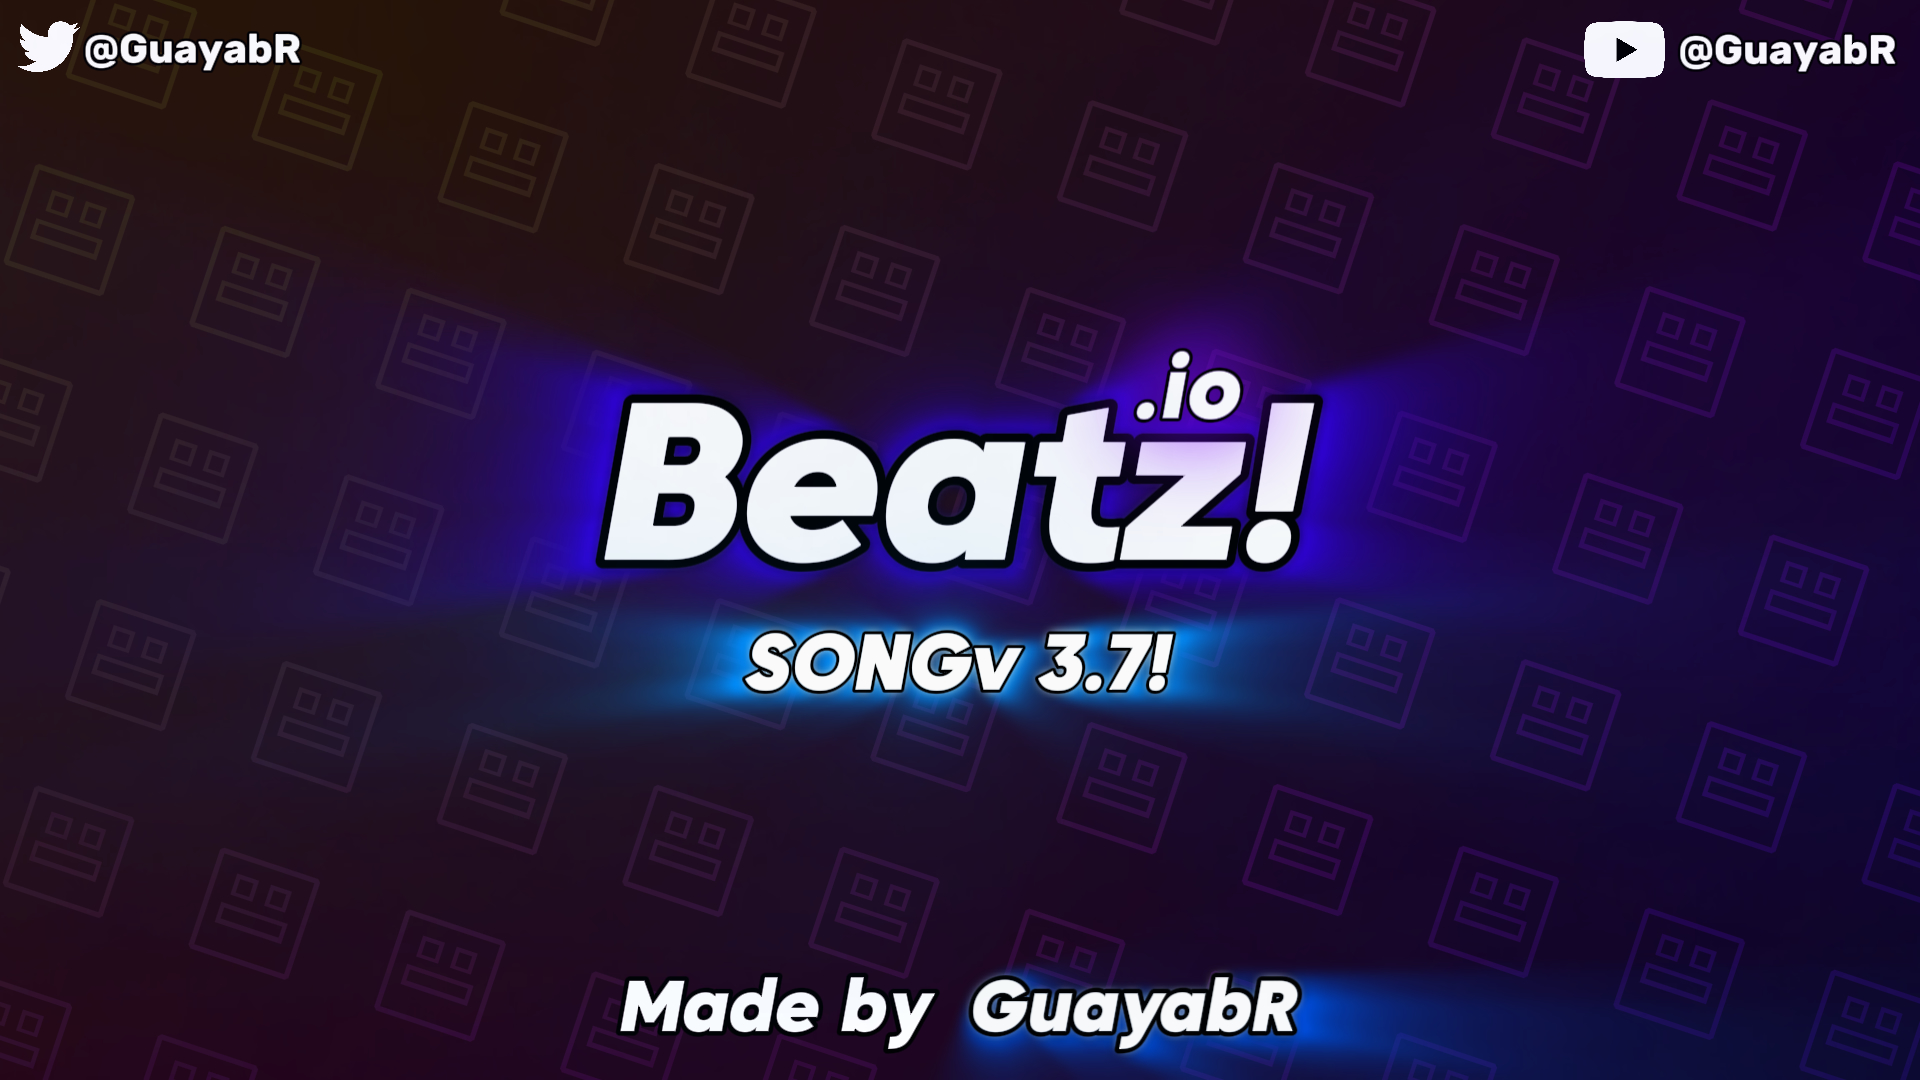
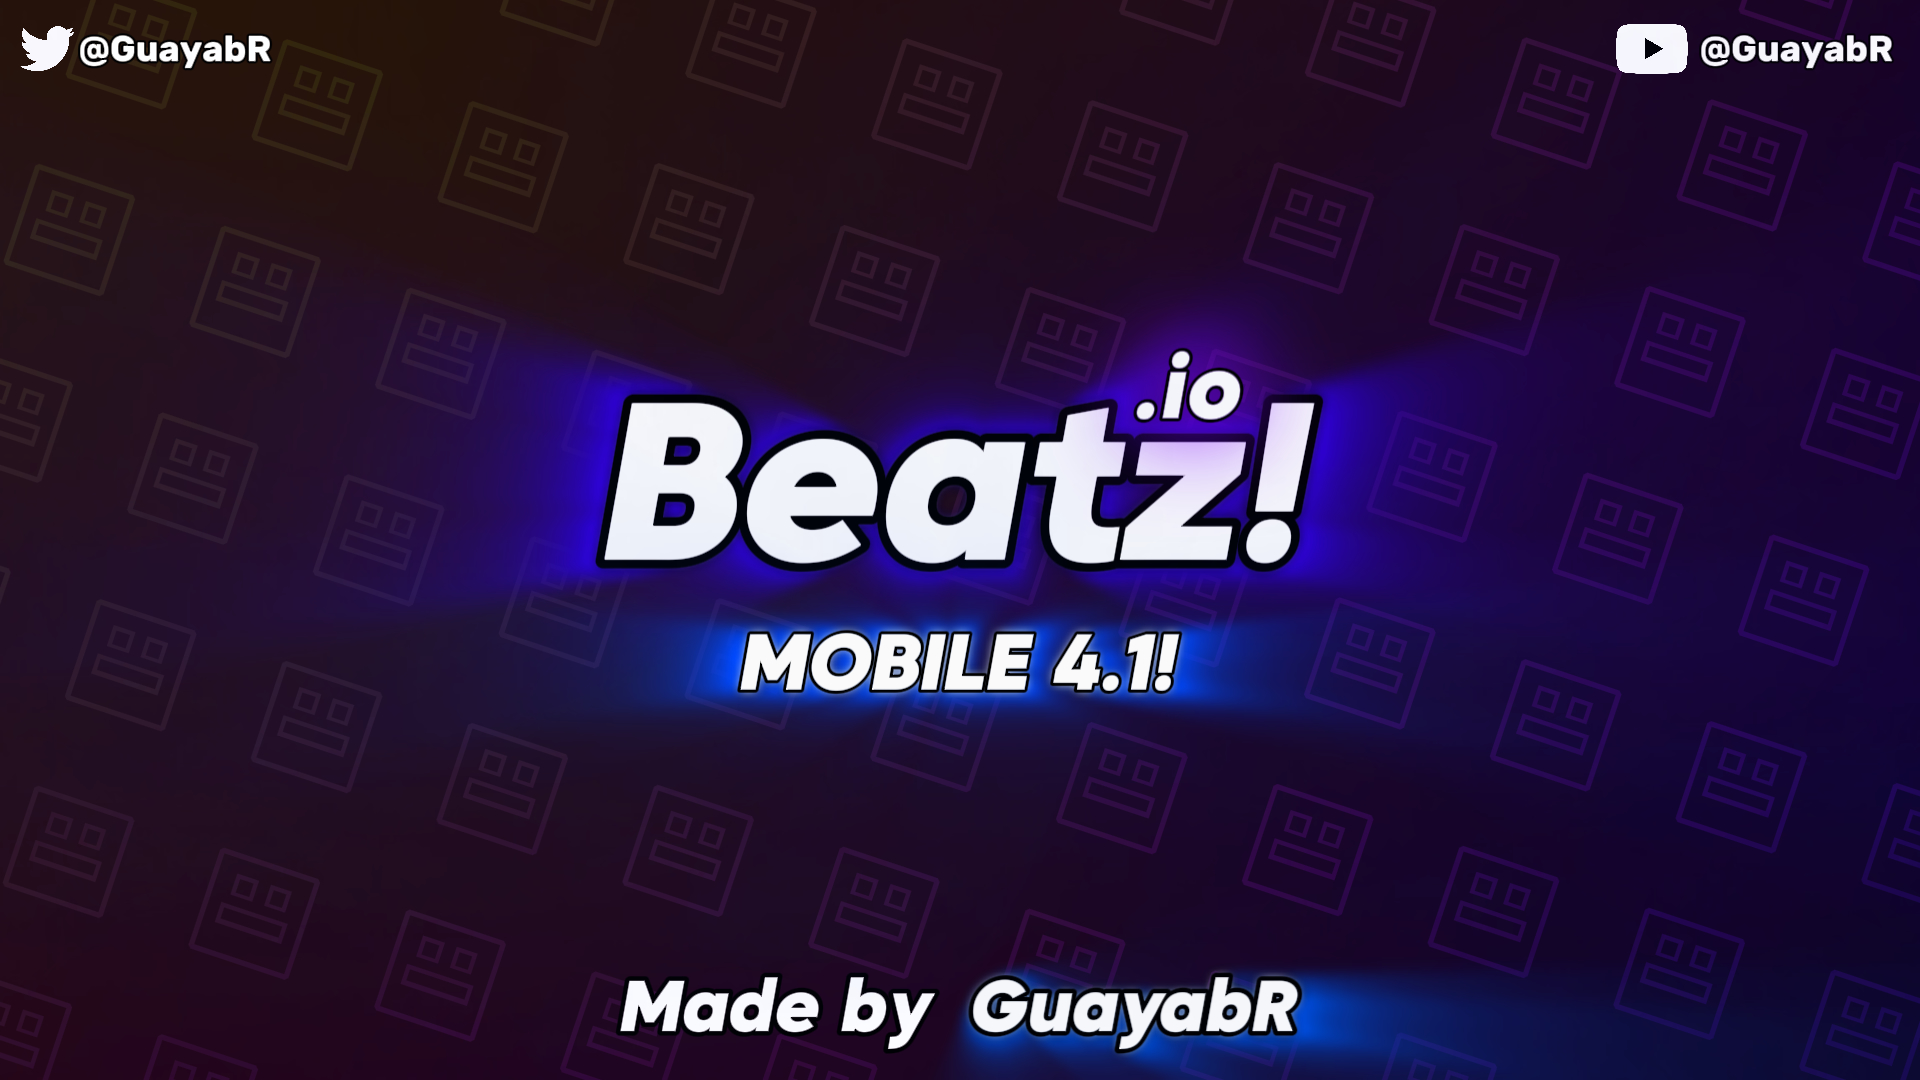
4.1.2.4 (MOBILE 4.1! 14/08/2024)

Changed region(s): [[0.3438, 0.55, 0.6562, 0.6722], [0.8125, 0.0, 1.0, 0.0917], [0.0312, 0.0306, 0.1562, 0.0611]]

diff --git a/BeatzGameTesting.js b/BeatzGameTesting.js
@@ -357,7 +357,7 @@ function preloadSongs() {
         "Resources/Songs/Stressed Out.mp3",
         "Resources/Songs/Ticking Away.mp3",
         "Resources/Songs/VISIONS.mp3",
-        "Resources/Songs/VVV.mp3",
+        "Resources/Songs/24.mp3",
         "Resources/Songs/WTF 2.mp3",
         "Resources/Songs/Somewhere I Belong.mp3",
         "Resources/Songs/Can't Slow Me Down.mp3",
@@ -378,7 +378,7 @@ function preloadSongs() {
         "Resources/Songs/Godzilla.mp3",
         "Resources/Songs/HIGHEST IN THE ROOM.mp3",
         "Resources/Songs/Runaway.mp3",
-        "Resources/Songs/Rush E.mp3",
+        "Resources/Songs/Fire Again.mp3",
         "Resources/Songs/Vamp Anthem.mp3",
         "Resources/Songs/CARNIVAL.mp3",
         "Resources/Songs/HUMBLE..mp3",
@@ -434,7 +434,8 @@ function preloadSongs() {
         "Resources/Songs/Your Girl.mp3",
         "Resources/Songs/Brand New City.mp3",
         "Resources/Songs/Idols.mp3",
-        "Resources/Songs/24.mp3",
+        "Resources/Songs/aruarian dance.mp3",
+        "Resources/Songs/VVV.mp3",
 
         "Resources/Songs/testingsong.mp3",
     ];
@@ -587,7 +588,7 @@ const songConfigs = {
     "Resources/Songs/Stressed Out.mp3": { BPM: 170, noteSpeed: 8 },
     "Resources/Songs/Ticking Away.mp3": { BPM: 95, noteSpeed: 10 },
     "Resources/Songs/VISIONS.mp3": { BPM: 157, noteSpeed: 8 },
-    "Resources/Songs/VVV.mp3": { BPM: 131, noteSpeed: 10 },
+    "Resources/Songs/24.mp3": { BPM: 98, noteSpeed: 8 },
     "Resources/Songs/WTF 2.mp3": { BPM: 116, noteSpeed: 14 },
     "Resources/Songs/MY EYES.mp3": { BPM: 132, noteSpeed: 12 },
     "Resources/Songs/Can't Slow Me Down.mp3": { BPM: 122, noteSpeed: 11 },
@@ -608,7 +609,7 @@ const songConfigs = {
     "Resources/Songs/Godzilla.mp3": { BPM: 166, noteSpeed: 13 },
     "Resources/Songs/HIGHEST IN THE ROOM.mp3": { BPM: 156, noteSpeed: 0 },
     "Resources/Songs/Runaway.mp3": { BPM: 85, noteSpeed: 10 },
-    "Resources/Songs/Rush E.mp3": { BPM: 500, noteSpeed: 20 },
+    "Resources/Songs/Fire Again.mp3": { BPM: 100, noteSpeed: 12 },
     "Resources/Songs/Vamp Anthem.mp3": { BPM: 164, noteSpeed: 12 },
     "Resources/Songs/CARNIVAL.mp3": { BPM: 148, noteSpeed: 12 },
     "Resources/Songs/HUMBLE..mp3": { BPM: 150, noteSpeed: 0 },
@@ -664,7 +665,8 @@ const songConfigs = {
     "Resources/Songs/Your Girl.mp3": { BPM: 120, noteSpeed: 8 },
     "Resources/Songs/Brand New City.mp3": { BPM: 148, noteSpeed: 12 },
     "Resources/Songs/Idols.mp3": { BPM: 130, noteSpeed: 2.65 },
-    "Resources/Songs/24.mp3": { BPM: 98, noteSpeed: 8 },
+    "Resources/Songs/aruarian dance.mp3": { BPM: 96, noteSpeed: 6 },
+    "Resources/Songs/VVV.mp3": { BPM: 131, noteSpeed: 10 },
 
     // Song Versions
 
@@ -924,7 +926,7 @@ const songToAlbumMap = {
     Godzilla: "Music to Be Murdered By",
     "HIGHEST IN THE ROOM": "HIGHEST IN THE ROOM",
     Runaway: "My Beautiful Dark Twisted Fantasy",
-    "Rush E": "Rush E",
+    "Fire Again": "Fire Again",
     "Vamp Anthem": "Whole Lotta Red",
     CARNIVAL: "VULTURES 1",
     "HUMBLE.": "DAMN.",
@@ -980,6 +982,7 @@ const songToAlbumMap = {
     "Brand New City": "Lush",
     Idols: "Idols",
     24: "Honeymoon",
+    "aruarian dance": "samurai champloo music record departure",
 
     // Song Versions
 
@@ -1039,7 +1042,7 @@ function preloadImages() {
         "Resources/Covers/Graduation.jpg",
         "Resources/Covers/Music to Be Murdered By.jpg",
         "Resources/Covers/My Beautiful Dark Twisted Fantasy.jpg",
-        "Resources/Covers/Rush E.jpg",
+        "Resources/Covers/Fire Again.jpg",
         "Resources/Covers/Whole Lotta Red.jpg",
         "Resources/Covers/VULTURES 1.jpg",
         "Resources/Covers/DAMN..jpg",
@@ -1074,6 +1077,7 @@ function preloadImages() {
         "Resources/Covers/Lush.jpg",
         "Resources/Covers/Idols.jpg",
         "Resources/Covers/Honeymoon.jpg",
+        "Resources/Covers/samurai champloo music record departure.jpg",
 
         // Song Versions
 
@@ -1414,7 +1418,7 @@ closeSongListBTN.onclick = closeSongList;
 
 // Global cooldown management
 let lastFunctionCallTime = 0;
-const COOLDOWN_PERIOD = 250; // Cooldown period in milliseconds (0.5 seconds)
+const COOLDOWN_PERIOD = 100; // Cooldown period in milliseconds
 
 function canActivate() {
     const currentTime = Date.now();
@@ -1652,7 +1656,7 @@ function getArtist(songSrc) {
         Numb: "Linkin Park",
         "sdp interlude": "Travis Scott",
         "Shiawase (VIP)": "Dion Timmer",
-        VVV: "mikeysmind, Sanikwave",
+        24: "Lana Del Rey",
         "Sleepwalker X Icewhxre": "akiaura, Lumi Athena",
         "WTF 2": "Ugovhb, EF",
         VISIONS: "VALORANT, eaJ, Safari Riot",
@@ -1677,7 +1681,7 @@ function getArtist(songSrc) {
         Godzilla: "Eminem, Juice WRLD",
         "HIGHEST IN THE ROOM": "Travis Scott",
         Runaway: "Kanye West, Pusha T",
-        "Rush E": "M.J. Kelly",
+        "Fire Again": "VALORANT, Ashnikko",
         "Vamp Anthem": "Playboi Carti",
         CARNIVAL: "¥$, Kanye West, Ty Dolla $ign, Rich The Kid, Playboi Carti",
         "HUMBLE.": "Kendrick Lamar",
@@ -1731,8 +1735,9 @@ function getArtist(songSrc) {
         Babooshka: "Kate Bush",
         "Your Girl": "Lana Del Rey",
         "Brand New City": "Mitski",
-        24: "Lana Del Rey",
         Idols: "Virtual Riot",
+        VVV: "mikeysmind, Sanikwave",
+        "aruarian dance": "nujabes",
 
         // Song Versions
 
@@ -1900,7 +1905,12 @@ function simulateKeyPress(key) {
 }
 
 window.onload = function () {
-    canvas.style.backgroundImage = "url('Resources/BeatzBanner.jpg')";
+    if (userDevice === "Desktop" || userDevice === "Chromebook") {
+        canvas.style.backgroundImage = "url('Resources/BeatzBanner.jpg')";
+    } else if (userDevice === "Mobile" || userDevice === "Android" || userDevice === "iOS") {
+        canvas.style.backgroundImage = "url('Resources/BeatzBannerMBL.jpg')";
+    }
+
     canvas.style.backgroundSize = "cover";
     canvas.style.backgroundPosition = "center";
 

diff --git a/mobileStyles.css b/mobileStyles.css
@@ -101,9 +101,9 @@ button:hover i {
 }
 
 canvas {
-    display: none; /* Hide canvas initially */
+    display: none;
     margin: 0 auto;
-    background-image: url("Resources/BeatzBanner.jpg");
+    background-image: url("Resources/BeatzBannerMBL.jpg");
     background-size: cover;
     background-position: center;
     border-radius: 10px;

diff --git a/BeatzSettings.js b/BeatzSettings.js
@@ -40,6 +40,8 @@ function handleChange() {
     // Initial call
     resizeCanvas();
     checkOrientation();
+
+    setTimeout(resizeCanvas, 500);
 }
 
 function detectAndHandleDevice() {
